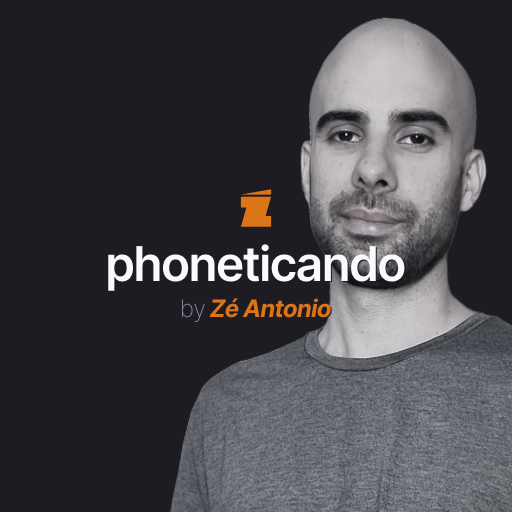
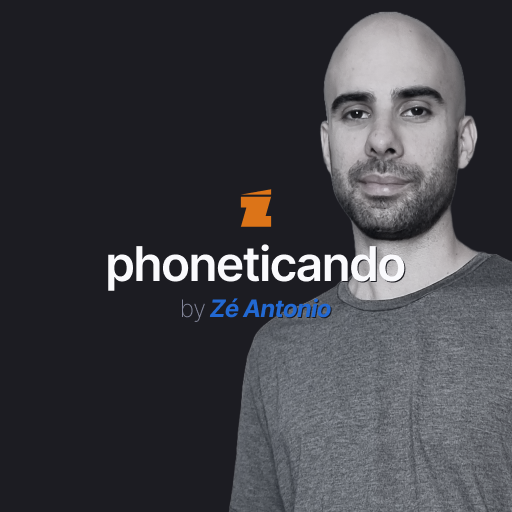
changes

diff --git a/aulas.html b/aulas.html
@@ -47,7 +47,7 @@
 
 <header>
     <component-global-menu>
-        Aulas com Zé
+        Aulas com <span class="ze-highlight">ZÉ</span>
     </component-global-menu>
 </header>
 
@@ -55,7 +55,7 @@
     <section class="section-container-padding dark-graycool-background aulas-picture-container">
         <div class="poster-container">
             <div class="poster-content">
-                <component-page-title>aulas com zé</component-page-title>
+                <component-page-title>aulas com <span class="ze-highlight">zé</span></component-page-title>
             </div>
         </div>
         <img src="images/pictures/aulas-pic.png" alt="" class="aulas-picture-background">

diff --git a/styles/home.css b/styles/home.css
@@ -2,6 +2,7 @@
     margin-bottom: 32px;
     position: relative;
     overflow: hidden;
+   /*background: linear-gradient(to bottom, var(--cerulean1000), var(--cerulean800));*/
 }
 
 .profile-picture-container::after {
@@ -10,7 +11,7 @@
     bottom: 0;
     left: 0;
     width: 100%;
-    height: 64%; /* adjust how tall the fade is */
+    height: 32%;
     background: linear-gradient(to bottom, transparent, var(--graycool1000));
     z-index: 0;
     pointer-events: none;
@@ -59,7 +60,7 @@
     font-weight: 600;
     font-size: 16px;
     font-family: var(--font-inter-tight);
-    color: var(--sunset600);
+    color: var(--cerulean600);
     font-style: italic;
 }
 

diff --git a/styles/highlight.css b/styles/highlight.css
@@ -1,3 +1,10 @@
+.ze-highlight {
+    color: var(--cerulean600);
+    font-weight: 900;
+    font-family: var(--font-inter-tight);
+    letter-spacing: 4px;
+}
+
 .cerulean-highlight {
     color: var(--cerulean600);
     font-weight: 600;
